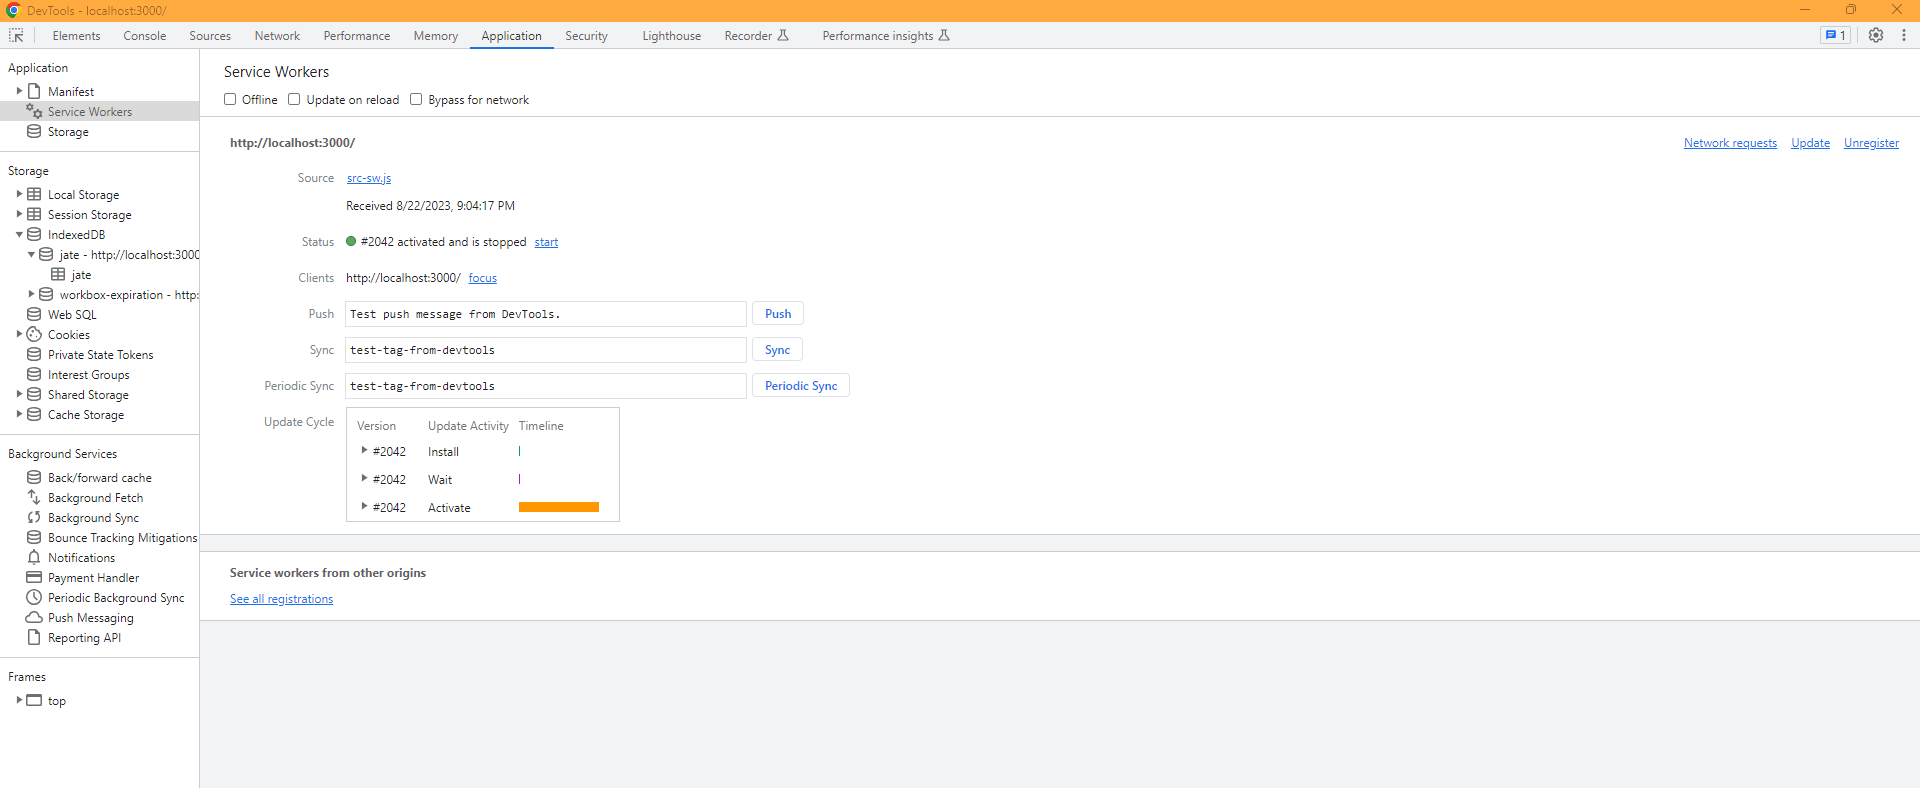
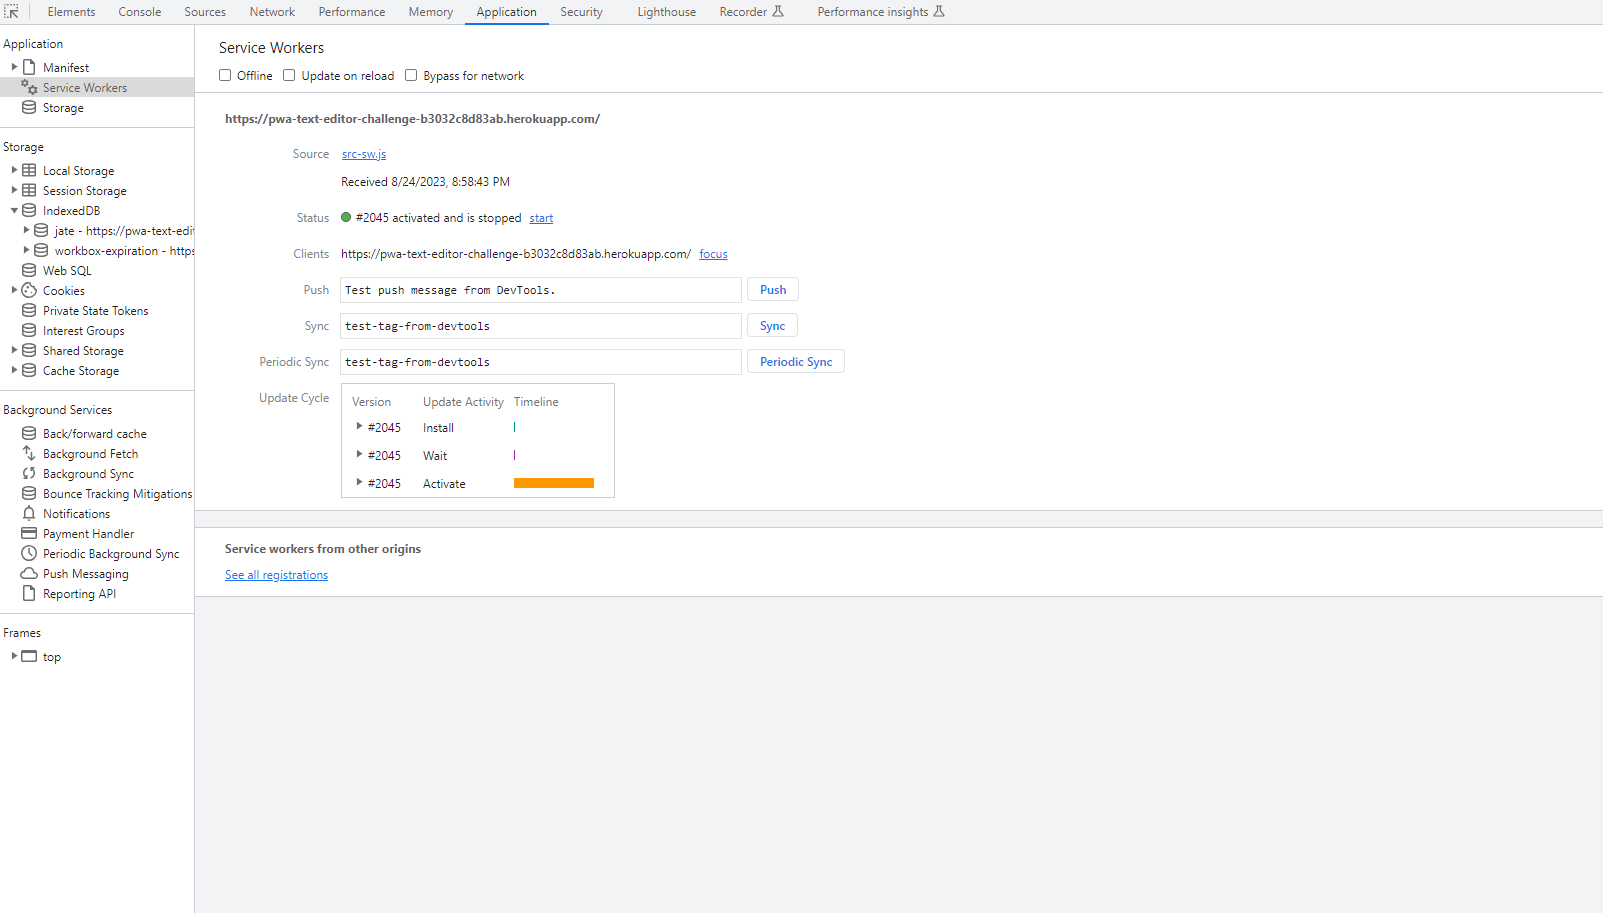
added screenshots

diff --git a/README.md b/README.md
@@ -140,3 +140,6 @@ You are required to submit the following for review:
 
 - - -
 © 2023 edX Boot Camps LLC. Confidential and Proprietary. All Rights Reserved.
+
+Deployed Applicaton - https://pwa-text-editor-challenge-b3032c8d83ab.herokuapp.com/
+GitHub Repo - https://github.com/BondT1/PWA-Text-Editor
